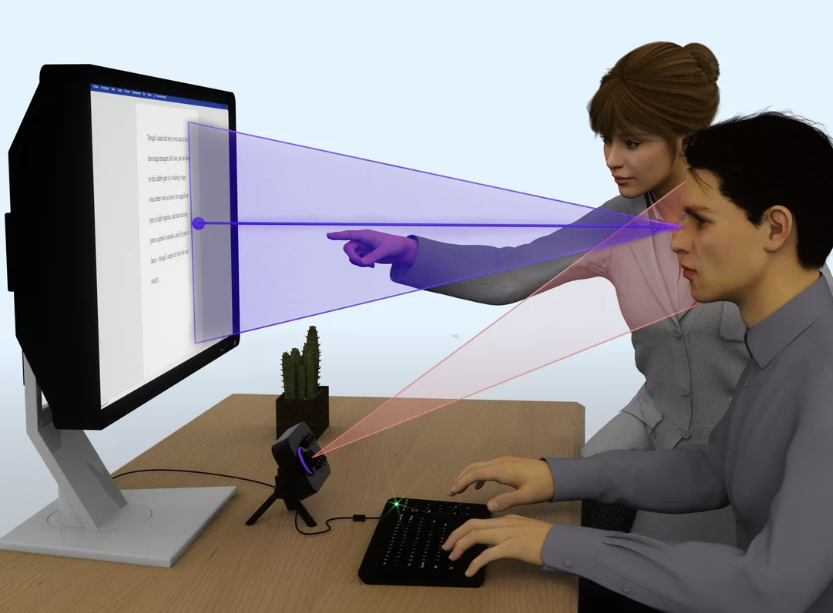
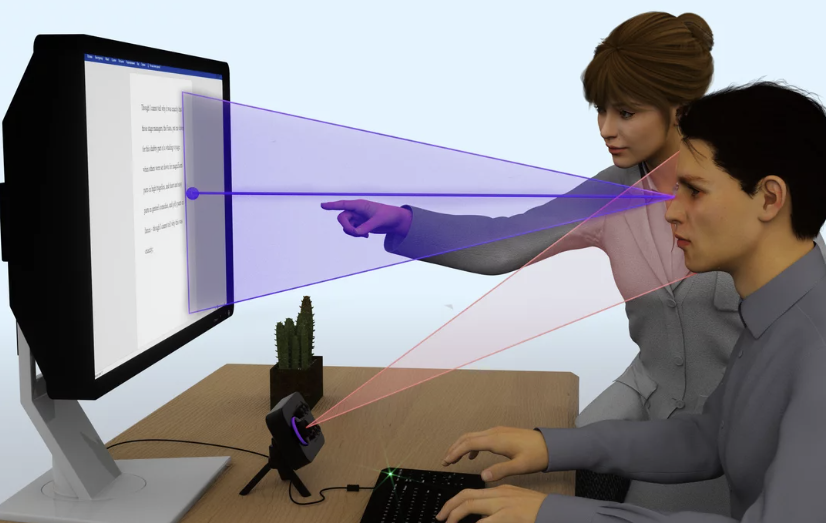
applied impact

diff --git a/_applied_impact/1. PurpleGaze.md b/_applied_impact/1. PurpleGaze.md
@@ -1,7 +1,7 @@
 ---
 title: "Neuro Data Science"
 excerpt: "<span style='font-size: smaller;'>An overview of my role in developing advanced data analysis pipelines for eye-tracking technology at Purple Gaze. </span> <br/>
-<img src='/images/Purple_Gaze_1.png'>
+<img src='/images/Purple_Gaze_3.png'>
 "
 collection: applied_impact
 ---
@@ -12,5 +12,9 @@ My primary responsibility is to develop a  data analysis pipeline tailored to ey
 
 As a leader in experimental design at Purple Gaze, I have developed and implemented novel protocols that utilize eye-tracking technology to detect markers indicative of neurodevelopmental and neurodegenerative disorders, thereby maximizing the potential impact of our technology. These protocols and the associated data analysis pipeline are part of our continuous efforts to contribute to the field of brain research, and they are available for review on the [Purple Gaze GitHub repository](https://github.com/purple-gaze/experiments-gallery).
 
-<img src='/images/Purple_Gaze_1.png'>
+<img src='/images/Purple_Gaze_2.png'>
+
+<span style="font-size:smaller; font-style: italic;"> For an overview of my development work on the data analysis pipeline, click [here](https://www.youtube.com/watch?app=desktop&v=TVtJP7gCNWA&ab_channel=PurpleGaze) to see a presentation at the Purple Gaze Symposium, November 2022</span>
+
+
 
